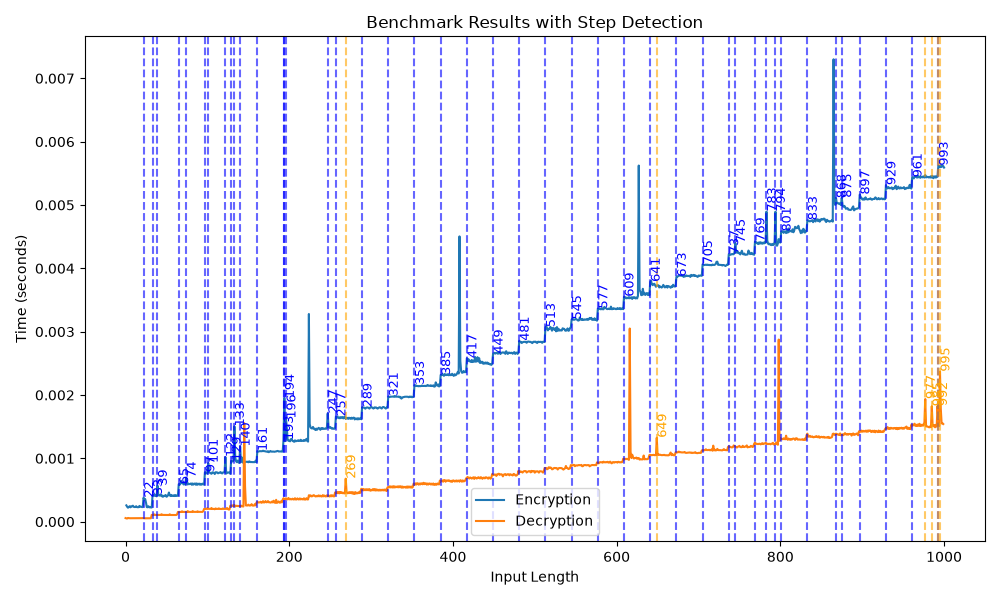
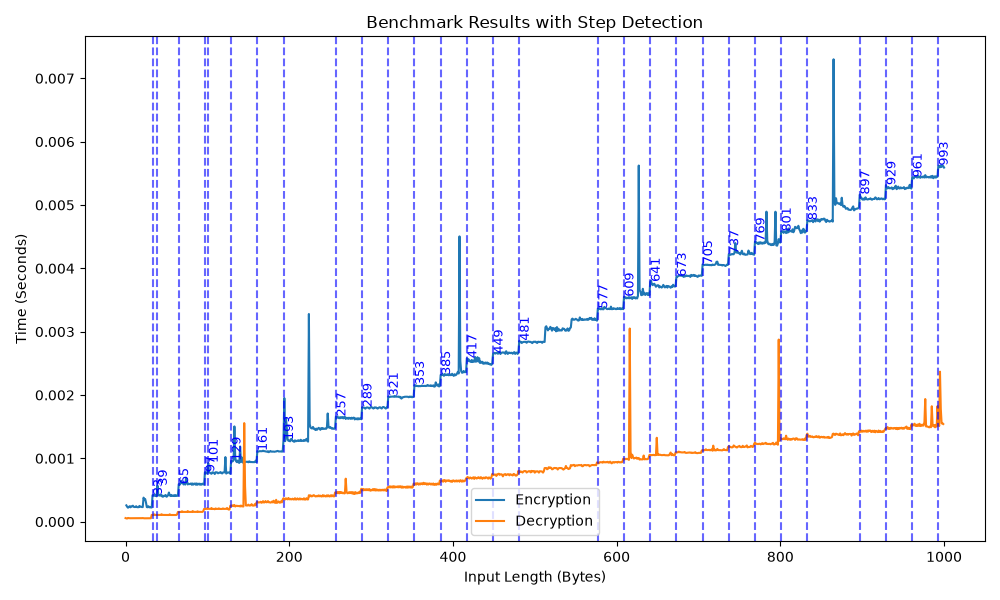
[FIX] some little improvement in step threshold

diff --git a/plot_benchmark.py b/plot_benchmark.py
@@ -1,6 +1,12 @@
 import matplotlib.pyplot as plt
 from pandas import read_csv
 
+"""
+Credits to Gemini for the fancy dotted lines
+
+"""
+
+
 # Load your data
 encryption_data = read_csv("encryption_benchmark.csv", sep=",")
 decryption_data = read_csv("decryption_benchmark.csv", sep=",")
@@ -26,8 +32,8 @@ def mark_steps(data, label_prefix, color):
     time_diff = data["time_taken"].diff()
 
     # 2. Define a threshold for what constitutes a "step"
-    threshold = 1e-4
-    max_jump = 1e-3
+    threshold = 1.5e-4
+    max_jump = 2.25e-4
 
     # add maximum constraint to avoid taking cpu spikes into account
 
@@ -42,7 +48,7 @@ def mark_steps(data, label_prefix, color):
             linestyle="--",
             alpha=0.6,
         )
-        # Optional: Label the exact X-value on the plot
+
         plt.text(
             row["input_length"],
             row["time_taken"],
@@ -64,8 +70,8 @@ mark_steps(encryption_data, "Encryption", "blue")
 mark_steps(decryption_data, "Decryption", "orange")
 # ----------------------------
 
-plt.xlabel("Input Length")
-plt.ylabel("Time (seconds)")
+plt.xlabel("Input Length (Bytes)")
+plt.ylabel("Time (Seconds)")
 plt.title("Benchmark Results with Step Detection")
 plt.legend()
 plt.tight_layout()

diff --git a/src/benchmark.rs b/src/benchmark.rs
@@ -1,5 +1,5 @@
 use crate::core::{decrypt_string, encrypt_string, generate_key_pair, generate_noise_polyvector};
-use crate::parameters::{eta_1, eta_2};
+use crate::parameters::{eta_1};
 
 
 pub fn benchmark_encryption(max_input_len : i32) -> Vec<(i32, f64)> {

diff --git a/README.md b/README.md
@@ -78,6 +78,8 @@ But it looks cool !
 We can see that thoses steps happen every 32 bytes of input string data. My deduction is that the steps are somehow due to the addition of one more Vector<> of 256 bits (represented as i32 => not optimized) to encode/decode. It would explain the "stairs" shape as we only add one vectore evevery 256 bits of input data.
 
 
+_Disclaimer : As with the terminal user interface, the fancy dotter lines in the graph have been added with the help of Gemini_
+
 ## TOUDOU
 - implement compression/decompression
 - faire les tests sur les vecteurs de tests officiels